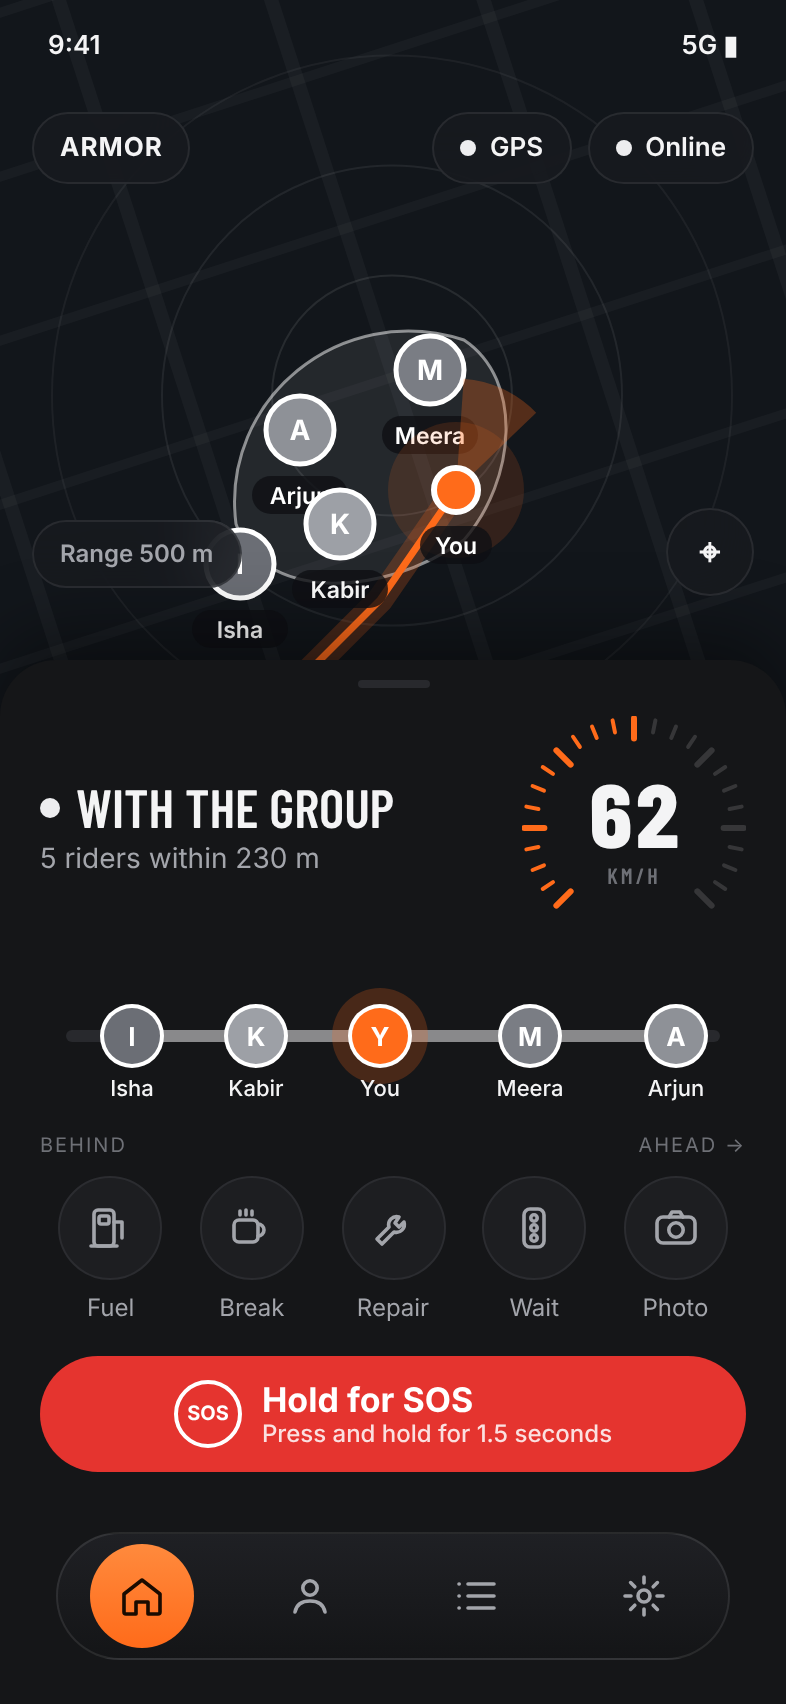
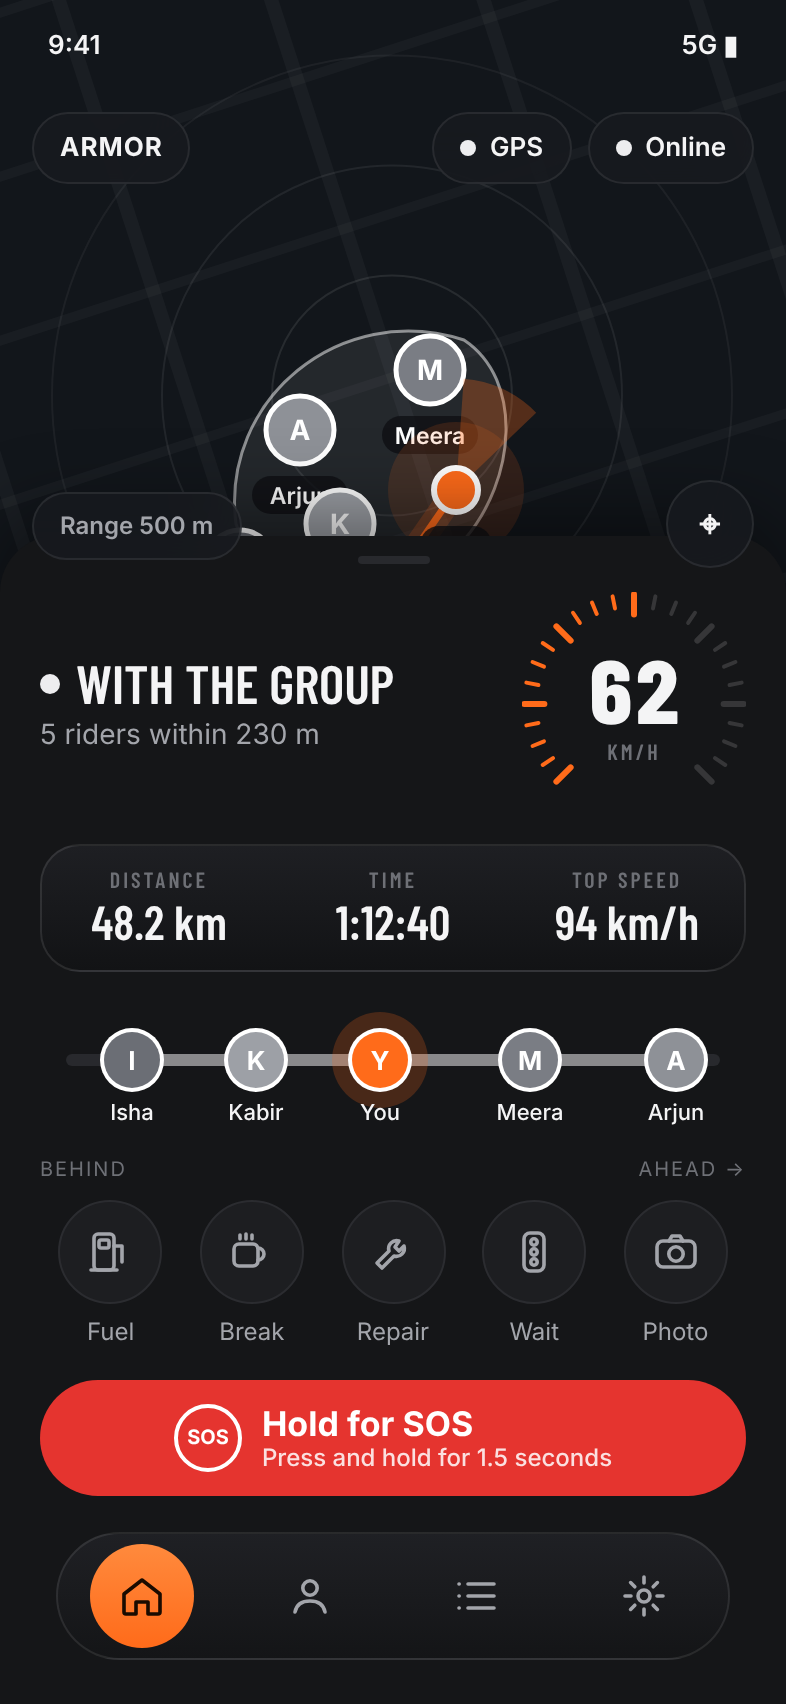
Add live ride stats (distance, time, top speed)
RideStats in :core ignores poor fixes, teleports and stationary GPS jitter, with
tests; shown as a stats strip in the ride sheet.

diff --git a/core/src/main/kotlin/com/armor/core/engine/RideStats.kt b/core/src/main/kotlin/com/armor/core/engine/RideStats.kt
@@ -1,0 +1,51 @@
+package com.armor.core.engine
+
+import com.armor.core.geo.Geo
+import com.armor.core.model.LocationFix
+
+/** Totals for the ride so far, shown on the ride screen. */
+data class RideSummary(
+    val distanceM: Double,
+    val elapsedMs: Long,
+    val movingMs: Long,
+    val maxSpeedMps: Double,
+) {
+    val avgMovingSpeedMps: Double get() = if (movingMs > 0) distanceM / (movingMs / 1000.0) else 0.0
+
+    companion object { val EMPTY = RideSummary(0.0, 0L, 0L, 0.0) }
+}
+
+/**
+ * Accumulates distance, moving time and top speed from GPS fixes. GPS jitter would otherwise add phantom distance while
+ * stopped, so poor fixes are ignored and a step only counts once it is clearly more than the position noise.
+ */
+class RideStats(private val maxAccuracyM: Double = 30.0, private val movingMps: Double = 1.0, private val maxPlausibleMps: Double = 90.0) {
+    private var startMs: Long? = null
+    private var prev: LocationFix? = null
+    private var distanceM = 0.0
+    private var movingMs = 0L
+    private var maxSpeed = 0.0
+
+    fun onFix(fix: LocationFix) {
+        if (fix.accuracyM > maxAccuracyM) return
+        if (startMs == null) startMs = fix.timeMs
+        val p = prev
+        if (p == null) { prev = fix; return }
+        val dt = fix.timeMs - p.timeMs
+        if (dt <= 0) return
+        val step = Geo.distanceM(p.position, fix.position)
+        val noise = maxOf(p.accuracyM, fix.accuracyM) * 0.5
+        val implied = step / (dt / 1000.0)
+        if (implied <= maxPlausibleMps && step > noise && fix.speedMps >= movingMps) {
+            distanceM += step
+            movingMs += dt
+        }
+        if (fix.speedMps <= maxPlausibleMps) maxSpeed = maxOf(maxSpeed, fix.speedMps)
+        prev = fix
+    }
+
+    fun summary(nowMs: Long): RideSummary {
+        val s = startMs ?: return RideSummary.EMPTY
+        return RideSummary(distanceM, (nowMs - s).coerceAtLeast(0), movingMs, maxSpeed)
+    }
+}

diff --git a/core/src/test/kotlin/com/armor/core/RideStatsTest.kt b/core/src/test/kotlin/com/armor/core/RideStatsTest.kt
@@ -1,0 +1,48 @@
+package com.armor.core
+
+import com.armor.core.engine.RideStats
+import com.armor.core.engine.RideSummary
+import com.armor.core.geo.LocalFrame
+import com.armor.core.geo.Point
+import com.armor.core.model.LatLon
+import com.armor.core.model.LocationFix
+import kotlin.test.Test
+import kotlin.test.assertEquals
+import kotlin.test.assertTrue
+
+class RideStatsTest {
+    private val frame = LocalFrame(LatLon(12.0, 77.0))
+    private fun fix(t: Long, eastM: Double, speed: Double, acc: Double = 5.0) =
+        LocationFix(t, frame.toLatLon(Point(eastM, 0.0)), speed, 90.0, acc)
+
+    @Test fun `accumulates distance moving time and top speed`() {
+        val s = RideStats()
+        for (i in 0..10) s.onFix(fix(i * 1000L, i * 20.0, 20.0))
+        val r = s.summary(10_000)
+        assertEquals(200.0, r.distanceM, 3.0)
+        assertEquals(10_000, r.movingMs)
+        assertEquals(20.0, r.maxSpeedMps, 1e-9)
+        assertEquals(20.0, r.avgMovingSpeedMps, 0.5)
+    }
+
+    @Test fun `gps jitter while stopped adds no distance`() {
+        val s = RideStats()
+        for (i in 0..30) s.onFix(fix(i * 1000L, if (i % 2 == 0) 0.0 else 2.0, 0.2, acc = 8.0))
+        assertEquals(0.0, s.summary(30_000).distanceM, 1e-9)
+        assertEquals(0L, s.summary(30_000).movingMs)
+    }
+
+    @Test fun `poor fixes and teleports are ignored`() {
+        val s = RideStats()
+        s.onFix(fix(0, 0.0, 15.0))
+        s.onFix(fix(1000, 15.0, 15.0, acc = 120.0))
+        s.onFix(fix(2000, 50_000.0, 15.0))
+        val r = s.summary(2000)
+        assertEquals(0.0, r.distanceM, 1e-9)
+        assertTrue(r.maxSpeedMps <= 90.0)
+    }
+
+    @Test fun `empty before any fix`() {
+        assertEquals(RideSummary.EMPTY, RideStats().summary(5000))
+    }
+}

diff --git a/app/src/main/kotlin/com/armor/app/ui/RideScreen.kt b/app/src/main/kotlin/com/armor/app/ui/RideScreen.kt
@@ -187,6 +187,8 @@ internal fun ActiveRide(s: RideSnapshot, demo: Boolean, warning: String?) {
                 Gap(14.dp)
                 StatusRow(s, look)
                 Gap(14.dp)
+                StatsStrip(s)
+                Gap(14.dp)
                 val others = s.riders.filter { !it.isSelf }
                 if (others.isNotEmpty()) {
                     ConvoyStrip(s)
@@ -248,6 +250,28 @@ private fun StatusRow(s: RideSnapshot, look: LinkLook) {
             Txt(look.sub, Type.Body.copy(fontSize = 14.sp), ArmorColors.Muted, Modifier.padding(top = 2.dp), maxLines = 2)
         }
         SpeedDial(kmh)
+    }
+}
+
+/** Distance, time and top speed for the ride so far, in the cluster-style condensed numerals. */
+@Composable
+private fun StatsStrip(s: RideSnapshot) {
+    val st = s.stats
+    val shape = RoundedCornerShape(20.dp)
+    Row(Modifier.fillMaxWidth().clip(shape).background(CARD_FILL).border(1.dp, CARD_EDGE, shape).padding(vertical = 12.dp)) {
+        listOf(
+            Triple("DISTANCE", fmtDistance(st.distanceM), ""),
+            Triple("TIME", fmtHms(st.elapsedMs), ""),
+            Triple("TOP SPEED", (st.maxSpeedMps * 3.6).roundToInt().toString(), " km/h"),
+        ).forEach { (label, value, unit) ->
+            Column(Modifier.weight(1f), horizontalAlignment = Alignment.CenterHorizontally) {
+                Txt(label, Type.Eyebrow.copy(fontSize = 11.sp, letterSpacing = 1.5.sp), ArmorColors.Dim)
+                Row(verticalAlignment = Alignment.Bottom) {
+                    Txt(value, Type.Title.copy(fontSize = 24.sp))
+                    if (unit.isNotEmpty()) Txt(unit, Type.Caption, ArmorColors.Muted, Modifier.padding(start = 2.dp, bottom = 3.dp))
+                }
+            }
+        }
     }
 }
 

diff --git a/core/src/main/kotlin/com/armor/core/engine/RideEngine.kt b/core/src/main/kotlin/com/armor/core/engine/RideEngine.kt
@@ -64,6 +64,7 @@ class RideEngine(
     private val machine = SafetyStateMachine(selfId, config.safety)
 
     private var selfFix: LocationFix? = null
+    private val stats = RideStats()
     private val speedHistory = ArrayDeque<Pair<Long, Double>>()
     private val peers = LinkedHashMap<String, RiderReport>()
     private var groupAlerts: Map<String, GroupAlert> = emptyMap()
@@ -86,6 +87,7 @@ class RideEngine(
 
     fun onLocation(fix: LocationFix) {
         selfFix = fix
+        stats.onFix(fix)
         stationary.onFix(fix)
         speedHistory.addLast(fix.timeMs to fix.speedMps)
         while (speedHistory.isNotEmpty() && fix.timeMs - speedHistory.first().first > SPEED_HISTORY_MS) speedHistory.removeFirst()
@@ -264,6 +266,7 @@ class RideEngine(
             incomingAlerts = incoming,
             voice = CommsPlanner.select(online, intercomConnected),
             online = online,
+            stats = stats.summary(nowMs),
         )
     }
 

diff --git a/app/src/main/kotlin/com/armor/app/ui/Format.kt b/app/src/main/kotlin/com/armor/app/ui/Format.kt
@@ -30,3 +30,12 @@ fun QuickStatus.shortLabel(): String = when (this) {
     QuickStatus.TRAFFIC -> "Wait"
     QuickStatus.PHOTO -> "Photo"
 }
+
+/** Elapsed time as m:ss under an hour, h:mm:ss after. */
+fun fmtHms(ms: Long): String {
+    val total = (ms / 1000).coerceAtLeast(0)
+    val h = total / 3600
+    val m = (total % 3600) / 60
+    val sec = total % 60
+    return if (h > 0) "%d:%02d:%02d".format(h, m, sec) else "%d:%02d".format(m, sec)
+}

diff --git a/core/src/main/kotlin/com/armor/core/engine/RideSnapshot.kt b/core/src/main/kotlin/com/armor/core/engine/RideSnapshot.kt
@@ -49,6 +49,7 @@ data class RideSnapshot(
     val incomingAlerts: List<IncomingAlert>,
     val voice: VoiceRoute,
     val online: Boolean,
+    val stats: RideSummary = RideSummary.EMPTY,
 ) {
     val self: RiderView? get() = riders.firstOrNull { it.isSelf }
 

diff --git a/docs/UI.md b/docs/UI.md
@@ -28,6 +28,7 @@ A rider's phone is on a handlebar, so: large touch targets, very few controls pe
 - **Map (full-bleed):** with a Google Maps API key and a connection this is a real **Google map** in ARMOR's dark style (see README, "Google Maps"), with your route in orange, you as an orange dot and riders as avatar pucks; with no key or no connection it falls back to the offline map below, so nothing safety-related depends on tiles. The offline map: north-up and centred on you; works offline. Soft range rings over a faint street-grid texture, **your route as a glowing orange line**, you as the orange marker with a heading cone, other riders as grey avatars with a white ring, and the group's area as a soft white blob. A rider who has fallen away gets a red **!** badge. Chips float over the map for GPS and connection status, and **End**.
 - **Bottom sheet:**
   - **Status:** "With the group · 5 riders within 230 m", or "Separated", "Riding solo", "<name> is on the way", with a **tachometer dial** (ticks every 5 km/h, red from 100).
+  - **Ride stats:** distance, time and top speed so far (GPS jitter while stopped adds no distance).
   - **Convoy strip:** every rider placed along the direction of travel (ahead on the right). A rider who has dropped off gets a red ring and a dashed red link back to the group, labelled with the gap.
   - **Quick status:** round line-icon buttons — Fuel, Break, Repair, Wait, Photo. Selected turns orange. Each pauses the "are you okay?" check for 15 minutes.
   - **Hold for SOS:** red pill; hold ~1.5 s while it charges.
